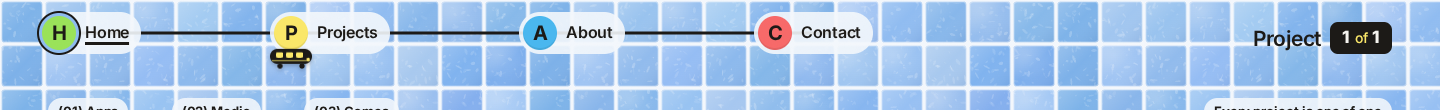
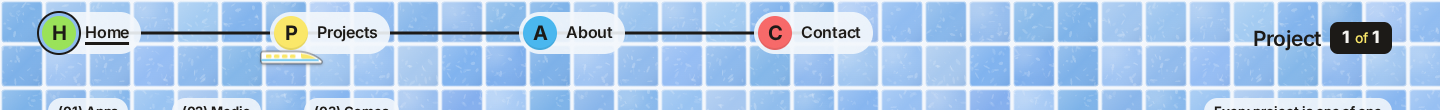
Nav: white Shinkansen-style bullet train, nose follows direction

Changed region(s): [[0.1562, 0.4364, 0.25, 0.6273]]

diff --git a/404.html b/404.html
@@ -21,7 +21,7 @@
   <link rel="preconnect" href="https://fonts.gstatic.com" crossorigin>
   <link href="https://fonts.googleapis.com/css2?family=Inter:wght@400;500;600;700;800&display=swap" rel="stylesheet">
   <link rel="stylesheet" href="/project-1-of-1/css/styles.css">
-  <meta name="build" content="nav-train-v1">
+  <meta name="build" content="nav-train-v2">
   <script>document.documentElement.classList.add("js");</script>
 </head>
 <body>
@@ -38,7 +38,7 @@
         <li><a href="/project-1-of-1/projects.html"><span class="bullet bullet--yellow" aria-hidden="true">P</span><span class="stop"><b>Projects</b><small>3 lots on view</small></span></a></li>
         <li><a href="/project-1-of-1/about.html"><span class="bullet bullet--sky" aria-hidden="true">A</span><span class="stop"><b>About</b><small>The idea</small></span></a></li>
         <li><a href="/project-1-of-1/contact.html"><span class="bullet bullet--coral" aria-hidden="true">C</span><span class="stop"><b>Contact</b><small>Say hello</small></span></a></li>
-        <li class="train-li" aria-hidden="true"><span class="train"><svg viewBox="0 0 44 22" width="44" height="22"><rect x="1" y="2" width="42" height="15" rx="7.5" fill="#1c1a17"/><rect x="7" y="5.5" width="7" height="5.5" rx="1.6" fill="#fbe86a"/><rect x="17" y="5.5" width="7" height="5.5" rx="1.6" fill="#fbe86a"/><rect x="27" y="5.5" width="7" height="5.5" rx="1.6" fill="#fbe86a"/><circle cx="39.2" cy="12.5" r="1.6" fill="#fbe86a"/><rect x="3" y="13" width="38" height="1.4" rx=".7" fill="#fbe86a" opacity=".55"/><g class="wheels" fill="#1c1a17"><circle cx="11" cy="19" r="2.6"/><circle cx="33" cy="19" r="2.6"/></g></svg></span></li>
+        <li class="train-li" aria-hidden="true"><span class="train"><svg viewBox="0 0 66 20" width="66" height="20"><path d="M3 6.5Q3 4 5.5 4H38C50 4 60 9 64 13.6Q64.6 16 62 16H5.5Q3 16 3 13.5Z" fill="#fff" stroke="#1c1a17" stroke-opacity=".55" stroke-width="1"/><path d="M43 6.2C50 6.4 55 9 58 11.2H45.5Q43 11.2 43 9Z" fill="#fbe86a"/><g fill="#fbe86a"><rect x="8" y="7" width="5.5" height="3.6" rx="1.2"/><rect x="16" y="7" width="5.5" height="3.6" rx="1.2"/><rect x="24" y="7" width="5.5" height="3.6" rx="1.2"/><rect x="32" y="7" width="5.5" height="3.6" rx="1.2"/></g><path d="M3.4 12.6H60.5" stroke="#4ab8f0" stroke-width="1.6"/></svg></span></li>
       </ul>
     </nav>
   </header>

diff --git a/projects/europe-tracker.html b/projects/europe-tracker.html
@@ -21,7 +21,7 @@
   <link rel="preconnect" href="https://fonts.gstatic.com" crossorigin>
   <link href="https://fonts.googleapis.com/css2?family=Inter:wght@400;500;600;700;800&display=swap" rel="stylesheet">
   <link rel="stylesheet" href="../css/styles.css">
-  <meta name="build" content="nav-train-v1">
+  <meta name="build" content="nav-train-v2">
   <script>document.documentElement.classList.add("js");</script>
 </head>
 <body>
@@ -38,7 +38,7 @@
         <li><a href="../projects.html" aria-current="page"><span class="bullet bullet--yellow" aria-hidden="true">P</span><span class="stop"><b>Projects</b><small>3 lots on view</small></span></a></li>
         <li><a href="../about.html"><span class="bullet bullet--sky" aria-hidden="true">A</span><span class="stop"><b>About</b><small>The idea</small></span></a></li>
         <li><a href="../contact.html"><span class="bullet bullet--coral" aria-hidden="true">C</span><span class="stop"><b>Contact</b><small>Say hello</small></span></a></li>
-        <li class="train-li" aria-hidden="true"><span class="train"><svg viewBox="0 0 44 22" width="44" height="22"><rect x="1" y="2" width="42" height="15" rx="7.5" fill="#1c1a17"/><rect x="7" y="5.5" width="7" height="5.5" rx="1.6" fill="#fbe86a"/><rect x="17" y="5.5" width="7" height="5.5" rx="1.6" fill="#fbe86a"/><rect x="27" y="5.5" width="7" height="5.5" rx="1.6" fill="#fbe86a"/><circle cx="39.2" cy="12.5" r="1.6" fill="#fbe86a"/><rect x="3" y="13" width="38" height="1.4" rx=".7" fill="#fbe86a" opacity=".55"/><g class="wheels" fill="#1c1a17"><circle cx="11" cy="19" r="2.6"/><circle cx="33" cy="19" r="2.6"/></g></svg></span></li>
+        <li class="train-li" aria-hidden="true"><span class="train"><svg viewBox="0 0 66 20" width="66" height="20"><path d="M3 6.5Q3 4 5.5 4H38C50 4 60 9 64 13.6Q64.6 16 62 16H5.5Q3 16 3 13.5Z" fill="#fff" stroke="#1c1a17" stroke-opacity=".55" stroke-width="1"/><path d="M43 6.2C50 6.4 55 9 58 11.2H45.5Q43 11.2 43 9Z" fill="#fbe86a"/><g fill="#fbe86a"><rect x="8" y="7" width="5.5" height="3.6" rx="1.2"/><rect x="16" y="7" width="5.5" height="3.6" rx="1.2"/><rect x="24" y="7" width="5.5" height="3.6" rx="1.2"/><rect x="32" y="7" width="5.5" height="3.6" rx="1.2"/></g><path d="M3.4 12.6H60.5" stroke="#4ab8f0" stroke-width="1.6"/></svg></span></li>
       </ul>
     </nav>
   </header>

diff --git a/projects/morning-news.html b/projects/morning-news.html
@@ -21,7 +21,7 @@
   <link rel="preconnect" href="https://fonts.gstatic.com" crossorigin>
   <link href="https://fonts.googleapis.com/css2?family=Inter:wght@400;500;600;700;800&display=swap" rel="stylesheet">
   <link rel="stylesheet" href="../css/styles.css">
-  <meta name="build" content="nav-train-v1">
+  <meta name="build" content="nav-train-v2">
   <script>document.documentElement.classList.add("js");</script>
 </head>
 <body>
@@ -38,7 +38,7 @@
         <li><a href="../projects.html" aria-current="page"><span class="bullet bullet--yellow" aria-hidden="true">P</span><span class="stop"><b>Projects</b><small>3 lots on view</small></span></a></li>
         <li><a href="../about.html"><span class="bullet bullet--sky" aria-hidden="true">A</span><span class="stop"><b>About</b><small>The idea</small></span></a></li>
         <li><a href="../contact.html"><span class="bullet bullet--coral" aria-hidden="true">C</span><span class="stop"><b>Contact</b><small>Say hello</small></span></a></li>
-        <li class="train-li" aria-hidden="true"><span class="train"><svg viewBox="0 0 44 22" width="44" height="22"><rect x="1" y="2" width="42" height="15" rx="7.5" fill="#1c1a17"/><rect x="7" y="5.5" width="7" height="5.5" rx="1.6" fill="#fbe86a"/><rect x="17" y="5.5" width="7" height="5.5" rx="1.6" fill="#fbe86a"/><rect x="27" y="5.5" width="7" height="5.5" rx="1.6" fill="#fbe86a"/><circle cx="39.2" cy="12.5" r="1.6" fill="#fbe86a"/><rect x="3" y="13" width="38" height="1.4" rx=".7" fill="#fbe86a" opacity=".55"/><g class="wheels" fill="#1c1a17"><circle cx="11" cy="19" r="2.6"/><circle cx="33" cy="19" r="2.6"/></g></svg></span></li>
+        <li class="train-li" aria-hidden="true"><span class="train"><svg viewBox="0 0 66 20" width="66" height="20"><path d="M3 6.5Q3 4 5.5 4H38C50 4 60 9 64 13.6Q64.6 16 62 16H5.5Q3 16 3 13.5Z" fill="#fff" stroke="#1c1a17" stroke-opacity=".55" stroke-width="1"/><path d="M43 6.2C50 6.4 55 9 58 11.2H45.5Q43 11.2 43 9Z" fill="#fbe86a"/><g fill="#fbe86a"><rect x="8" y="7" width="5.5" height="3.6" rx="1.2"/><rect x="16" y="7" width="5.5" height="3.6" rx="1.2"/><rect x="24" y="7" width="5.5" height="3.6" rx="1.2"/><rect x="32" y="7" width="5.5" height="3.6" rx="1.2"/></g><path d="M3.4 12.6H60.5" stroke="#4ab8f0" stroke-width="1.6"/></svg></span></li>
       </ul>
     </nav>
   </header>

diff --git a/projects/pixel-game.html b/projects/pixel-game.html
@@ -21,7 +21,7 @@
   <link rel="preconnect" href="https://fonts.gstatic.com" crossorigin>
   <link href="https://fonts.googleapis.com/css2?family=Inter:wght@400;500;600;700;800&display=swap" rel="stylesheet">
   <link rel="stylesheet" href="../css/styles.css">
-  <meta name="build" content="nav-train-v1">
+  <meta name="build" content="nav-train-v2">
   <script>document.documentElement.classList.add("js");</script>
 </head>
 <body>
@@ -38,7 +38,7 @@
         <li><a href="../projects.html" aria-current="page"><span class="bullet bullet--yellow" aria-hidden="true">P</span><span class="stop"><b>Projects</b><small>3 lots on view</small></span></a></li>
         <li><a href="../about.html"><span class="bullet bullet--sky" aria-hidden="true">A</span><span class="stop"><b>About</b><small>The idea</small></span></a></li>
         <li><a href="../contact.html"><span class="bullet bullet--coral" aria-hidden="true">C</span><span class="stop"><b>Contact</b><small>Say hello</small></span></a></li>
-        <li class="train-li" aria-hidden="true"><span class="train"><svg viewBox="0 0 44 22" width="44" height="22"><rect x="1" y="2" width="42" height="15" rx="7.5" fill="#1c1a17"/><rect x="7" y="5.5" width="7" height="5.5" rx="1.6" fill="#fbe86a"/><rect x="17" y="5.5" width="7" height="5.5" rx="1.6" fill="#fbe86a"/><rect x="27" y="5.5" width="7" height="5.5" rx="1.6" fill="#fbe86a"/><circle cx="39.2" cy="12.5" r="1.6" fill="#fbe86a"/><rect x="3" y="13" width="38" height="1.4" rx=".7" fill="#fbe86a" opacity=".55"/><g class="wheels" fill="#1c1a17"><circle cx="11" cy="19" r="2.6"/><circle cx="33" cy="19" r="2.6"/></g></svg></span></li>
+        <li class="train-li" aria-hidden="true"><span class="train"><svg viewBox="0 0 66 20" width="66" height="20"><path d="M3 6.5Q3 4 5.5 4H38C50 4 60 9 64 13.6Q64.6 16 62 16H5.5Q3 16 3 13.5Z" fill="#fff" stroke="#1c1a17" stroke-opacity=".55" stroke-width="1"/><path d="M43 6.2C50 6.4 55 9 58 11.2H45.5Q43 11.2 43 9Z" fill="#fbe86a"/><g fill="#fbe86a"><rect x="8" y="7" width="5.5" height="3.6" rx="1.2"/><rect x="16" y="7" width="5.5" height="3.6" rx="1.2"/><rect x="24" y="7" width="5.5" height="3.6" rx="1.2"/><rect x="32" y="7" width="5.5" height="3.6" rx="1.2"/></g><path d="M3.4 12.6H60.5" stroke="#4ab8f0" stroke-width="1.6"/></svg></span></li>
       </ul>
     </nav>
   </header>

diff --git a/about.html b/about.html
@@ -21,7 +21,7 @@
   <link rel="preconnect" href="https://fonts.gstatic.com" crossorigin>
   <link href="https://fonts.googleapis.com/css2?family=Inter:wght@400;500;600;700;800&display=swap" rel="stylesheet">
   <link rel="stylesheet" href="css/styles.css">
-  <meta name="build" content="nav-train-v1">
+  <meta name="build" content="nav-train-v2">
   <script>document.documentElement.classList.add("js");</script>
 </head>
 <body>
@@ -38,7 +38,7 @@
         <li><a href="projects.html"><span class="bullet bullet--yellow" aria-hidden="true">P</span><span class="stop"><b>Projects</b><small>3 lots on view</small></span></a></li>
         <li><a href="about.html" aria-current="page"><span class="bullet bullet--sky" aria-hidden="true">A</span><span class="stop"><b>About</b><small>The idea</small></span></a></li>
         <li><a href="contact.html"><span class="bullet bullet--coral" aria-hidden="true">C</span><span class="stop"><b>Contact</b><small>Say hello</small></span></a></li>
-        <li class="train-li" aria-hidden="true"><span class="train"><svg viewBox="0 0 44 22" width="44" height="22"><rect x="1" y="2" width="42" height="15" rx="7.5" fill="#1c1a17"/><rect x="7" y="5.5" width="7" height="5.5" rx="1.6" fill="#fbe86a"/><rect x="17" y="5.5" width="7" height="5.5" rx="1.6" fill="#fbe86a"/><rect x="27" y="5.5" width="7" height="5.5" rx="1.6" fill="#fbe86a"/><circle cx="39.2" cy="12.5" r="1.6" fill="#fbe86a"/><rect x="3" y="13" width="38" height="1.4" rx=".7" fill="#fbe86a" opacity=".55"/><g class="wheels" fill="#1c1a17"><circle cx="11" cy="19" r="2.6"/><circle cx="33" cy="19" r="2.6"/></g></svg></span></li>
+        <li class="train-li" aria-hidden="true"><span class="train"><svg viewBox="0 0 66 20" width="66" height="20"><path d="M3 6.5Q3 4 5.5 4H38C50 4 60 9 64 13.6Q64.6 16 62 16H5.5Q3 16 3 13.5Z" fill="#fff" stroke="#1c1a17" stroke-opacity=".55" stroke-width="1"/><path d="M43 6.2C50 6.4 55 9 58 11.2H45.5Q43 11.2 43 9Z" fill="#fbe86a"/><g fill="#fbe86a"><rect x="8" y="7" width="5.5" height="3.6" rx="1.2"/><rect x="16" y="7" width="5.5" height="3.6" rx="1.2"/><rect x="24" y="7" width="5.5" height="3.6" rx="1.2"/><rect x="32" y="7" width="5.5" height="3.6" rx="1.2"/></g><path d="M3.4 12.6H60.5" stroke="#4ab8f0" stroke-width="1.6"/></svg></span></li>
       </ul>
     </nav>
   </header>

diff --git a/contact.html b/contact.html
@@ -21,7 +21,7 @@
   <link rel="preconnect" href="https://fonts.gstatic.com" crossorigin>
   <link href="https://fonts.googleapis.com/css2?family=Inter:wght@400;500;600;700;800&display=swap" rel="stylesheet">
   <link rel="stylesheet" href="css/styles.css">
-  <meta name="build" content="nav-train-v1">
+  <meta name="build" content="nav-train-v2">
   <script>document.documentElement.classList.add("js");</script>
 </head>
 <body>
@@ -38,7 +38,7 @@
         <li><a href="projects.html"><span class="bullet bullet--yellow" aria-hidden="true">P</span><span class="stop"><b>Projects</b><small>3 lots on view</small></span></a></li>
         <li><a href="about.html"><span class="bullet bullet--sky" aria-hidden="true">A</span><span class="stop"><b>About</b><small>The idea</small></span></a></li>
         <li><a href="contact.html" aria-current="page"><span class="bullet bullet--coral" aria-hidden="true">C</span><span class="stop"><b>Contact</b><small>Say hello</small></span></a></li>
-        <li class="train-li" aria-hidden="true"><span class="train"><svg viewBox="0 0 44 22" width="44" height="22"><rect x="1" y="2" width="42" height="15" rx="7.5" fill="#1c1a17"/><rect x="7" y="5.5" width="7" height="5.5" rx="1.6" fill="#fbe86a"/><rect x="17" y="5.5" width="7" height="5.5" rx="1.6" fill="#fbe86a"/><rect x="27" y="5.5" width="7" height="5.5" rx="1.6" fill="#fbe86a"/><circle cx="39.2" cy="12.5" r="1.6" fill="#fbe86a"/><rect x="3" y="13" width="38" height="1.4" rx=".7" fill="#fbe86a" opacity=".55"/><g class="wheels" fill="#1c1a17"><circle cx="11" cy="19" r="2.6"/><circle cx="33" cy="19" r="2.6"/></g></svg></span></li>
+        <li class="train-li" aria-hidden="true"><span class="train"><svg viewBox="0 0 66 20" width="66" height="20"><path d="M3 6.5Q3 4 5.5 4H38C50 4 60 9 64 13.6Q64.6 16 62 16H5.5Q3 16 3 13.5Z" fill="#fff" stroke="#1c1a17" stroke-opacity=".55" stroke-width="1"/><path d="M43 6.2C50 6.4 55 9 58 11.2H45.5Q43 11.2 43 9Z" fill="#fbe86a"/><g fill="#fbe86a"><rect x="8" y="7" width="5.5" height="3.6" rx="1.2"/><rect x="16" y="7" width="5.5" height="3.6" rx="1.2"/><rect x="24" y="7" width="5.5" height="3.6" rx="1.2"/><rect x="32" y="7" width="5.5" height="3.6" rx="1.2"/></g><path d="M3.4 12.6H60.5" stroke="#4ab8f0" stroke-width="1.6"/></svg></span></li>
       </ul>
     </nav>
   </header>

diff --git a/projects.html b/projects.html
@@ -21,7 +21,7 @@
   <link rel="preconnect" href="https://fonts.gstatic.com" crossorigin>
   <link href="https://fonts.googleapis.com/css2?family=Inter:wght@400;500;600;700;800&display=swap" rel="stylesheet">
   <link rel="stylesheet" href="css/styles.css">
-  <meta name="build" content="nav-train-v1">
+  <meta name="build" content="nav-train-v2">
   <script>document.documentElement.classList.add("js");</script>
 </head>
 <body>
@@ -38,7 +38,7 @@
         <li><a href="projects.html" aria-current="page"><span class="bullet bullet--yellow" aria-hidden="true">P</span><span class="stop"><b>Projects</b><small>3 lots on view</small></span></a></li>
         <li><a href="about.html"><span class="bullet bullet--sky" aria-hidden="true">A</span><span class="stop"><b>About</b><small>The idea</small></span></a></li>
         <li><a href="contact.html"><span class="bullet bullet--coral" aria-hidden="true">C</span><span class="stop"><b>Contact</b><small>Say hello</small></span></a></li>
-        <li class="train-li" aria-hidden="true"><span class="train"><svg viewBox="0 0 44 22" width="44" height="22"><rect x="1" y="2" width="42" height="15" rx="7.5" fill="#1c1a17"/><rect x="7" y="5.5" width="7" height="5.5" rx="1.6" fill="#fbe86a"/><rect x="17" y="5.5" width="7" height="5.5" rx="1.6" fill="#fbe86a"/><rect x="27" y="5.5" width="7" height="5.5" rx="1.6" fill="#fbe86a"/><circle cx="39.2" cy="12.5" r="1.6" fill="#fbe86a"/><rect x="3" y="13" width="38" height="1.4" rx=".7" fill="#fbe86a" opacity=".55"/><g class="wheels" fill="#1c1a17"><circle cx="11" cy="19" r="2.6"/><circle cx="33" cy="19" r="2.6"/></g></svg></span></li>
+        <li class="train-li" aria-hidden="true"><span class="train"><svg viewBox="0 0 66 20" width="66" height="20"><path d="M3 6.5Q3 4 5.5 4H38C50 4 60 9 64 13.6Q64.6 16 62 16H5.5Q3 16 3 13.5Z" fill="#fff" stroke="#1c1a17" stroke-opacity=".55" stroke-width="1"/><path d="M43 6.2C50 6.4 55 9 58 11.2H45.5Q43 11.2 43 9Z" fill="#fbe86a"/><g fill="#fbe86a"><rect x="8" y="7" width="5.5" height="3.6" rx="1.2"/><rect x="16" y="7" width="5.5" height="3.6" rx="1.2"/><rect x="24" y="7" width="5.5" height="3.6" rx="1.2"/><rect x="32" y="7" width="5.5" height="3.6" rx="1.2"/></g><path d="M3.4 12.6H60.5" stroke="#4ab8f0" stroke-width="1.6"/></svg></span></li>
       </ul>
     </nav>
   </header>

diff --git a/index.html b/index.html
@@ -21,7 +21,7 @@
   <link rel="preconnect" href="https://fonts.gstatic.com" crossorigin>
   <link href="https://fonts.googleapis.com/css2?family=Inter:wght@400;500;600;700;800&display=swap" rel="stylesheet">
   <link rel="stylesheet" href="css/styles.css">
-  <meta name="build" content="nav-train-v1">
+  <meta name="build" content="nav-train-v2">
   <script>document.documentElement.classList.add("js");</script>
 </head>
 <body>
@@ -38,7 +38,7 @@
         <li><a href="projects.html"><span class="bullet bullet--yellow" aria-hidden="true">P</span><span class="stop"><b>Projects</b><small>3 lots on view</small></span></a></li>
         <li><a href="about.html"><span class="bullet bullet--sky" aria-hidden="true">A</span><span class="stop"><b>About</b><small>The idea</small></span></a></li>
         <li><a href="contact.html"><span class="bullet bullet--coral" aria-hidden="true">C</span><span class="stop"><b>Contact</b><small>Say hello</small></span></a></li>
-        <li class="train-li" aria-hidden="true"><span class="train"><svg viewBox="0 0 44 22" width="44" height="22"><rect x="1" y="2" width="42" height="15" rx="7.5" fill="#1c1a17"/><rect x="7" y="5.5" width="7" height="5.5" rx="1.6" fill="#fbe86a"/><rect x="17" y="5.5" width="7" height="5.5" rx="1.6" fill="#fbe86a"/><rect x="27" y="5.5" width="7" height="5.5" rx="1.6" fill="#fbe86a"/><circle cx="39.2" cy="12.5" r="1.6" fill="#fbe86a"/><rect x="3" y="13" width="38" height="1.4" rx=".7" fill="#fbe86a" opacity=".55"/><g class="wheels" fill="#1c1a17"><circle cx="11" cy="19" r="2.6"/><circle cx="33" cy="19" r="2.6"/></g></svg></span></li>
+        <li class="train-li" aria-hidden="true"><span class="train"><svg viewBox="0 0 66 20" width="66" height="20"><path d="M3 6.5Q3 4 5.5 4H38C50 4 60 9 64 13.6Q64.6 16 62 16H5.5Q3 16 3 13.5Z" fill="#fff" stroke="#1c1a17" stroke-opacity=".55" stroke-width="1"/><path d="M43 6.2C50 6.4 55 9 58 11.2H45.5Q43 11.2 43 9Z" fill="#fbe86a"/><g fill="#fbe86a"><rect x="8" y="7" width="5.5" height="3.6" rx="1.2"/><rect x="16" y="7" width="5.5" height="3.6" rx="1.2"/><rect x="24" y="7" width="5.5" height="3.6" rx="1.2"/><rect x="32" y="7" width="5.5" height="3.6" rx="1.2"/></g><path d="M3.4 12.6H60.5" stroke="#4ab8f0" stroke-width="1.6"/></svg></span></li>
       </ul>
     </nav>
   </header>

diff --git a/css/styles.css b/css/styles.css
@@ -475,25 +475,22 @@ a.contact-card:hover { transform: translateY(-5px); box-shadow: 0 30px 60px -30p
   .route::before { left: 18px; right: 18px; top: calc(50% - 5px); }
 }
 .train-li { position: absolute !important; left: 0; top: 0; z-index: 3 !important; pointer-events: none; list-style: none; }
-.train { position: absolute; left: 0; top: 0; display: block; width: 44px; height: 22px; margin: -11px 0 0 -22px;
-  transform: translate(var(--tx, 0px), var(--ty, 0px)) rotate(var(--rot, 0deg)); opacity: 0; filter: drop-shadow(0 2px 2px rgba(28,26,23,.25)); }
+.train { position: absolute; left: 0; top: 0; display: block; width: 66px; height: 20px; margin: -10px 0 0 -33px;
+  transform: translate(var(--tx, 0px), var(--ty, 0px)) scaleX(var(--flip, 1)); opacity: 0; filter: drop-shadow(0 1.5px 1.5px rgba(28,26,23,.35)); }
 .train.is-placed { opacity: 1; }
 .train.is-moving { transition: transform .8s cubic-bezier(.65,0,.35,1); }
 .train svg { display: block; }
 .train.is-moving svg { animation: train-bob .2s ease-in-out infinite alternate; }
-.train.is-moving .wheels circle { animation: train-wheel .2s linear infinite alternate; }
-@keyframes train-bob { to { transform: translateY(-1.2px); } }
-@keyframes train-wheel { to { transform: translateY(.6px); } }
+@keyframes train-bob { to { transform: translateY(-.8px); } }
 @media (max-width: 760px) {
   .route .train-li { display: block; }
 }
 @media (prefers-reduced-motion: reduce) {
   .train.is-moving { transition: none; }
-  .train.is-moving svg, .train.is-moving .wheels circle { animation: none; }
+  .train.is-moving svg { animation: none; }
   ::view-transition-old(root), ::view-transition-new(root) { animation: none; }
 }
 
 @media (max-width: 760px) {
-  .train { margin: -11px 0 0 -22px; }
   .route .train-li { display: block; }
 }

diff --git a/js/nav.js b/js/nav.js
@@ -10,7 +10,8 @@
     var yb = mobile.matches ? b.top + b.height / 2 - r.top + 36 : b.bottom - r.top + 8;
     return { x: x, y: yb, rot: 0 };                                          // parked under the current station
   }
-  function place(a) { var s = spot(a); train.style.setProperty('--tx', s.x + 'px'); train.style.setProperty('--ty', s.y + 'px'); train.style.setProperty('--rot', s.rot + 'deg'); }
+  function place(a) { var s = spot(a); train.style.setProperty('--tx', s.x + 'px'); train.style.setProperty('--ty', s.y + 'px'); train.style.setProperty('--flip', flip); }
+  var flip = sessionStorage.getItem('trainFlip') || '1';
   var current = route.querySelector('a[aria-current="page"]') || route.querySelector('a');
   place(current); train.classList.add('is-placed');
   window.addEventListener('resize', function () { if (!train.classList.contains('is-moving')) place(current); });
@@ -22,6 +23,8 @@
     if (reduce) return;                       // instant: normal navigation
     e.preventDefault();
     var go = function () { location.href = a.href; };
+    var from = spot(current).x, to = spot(a).x;
+    flip = to < from ? '-1' : '1'; try { sessionStorage.setItem('trainFlip', flip); } catch (_) {}
     train.classList.add('is-moving'); place(a);
     var done = false, fin = function () { if (!done) { done = true; go(); } };
     train.addEventListener('transitionend', fin, { once: true }); setTimeout(fin, 950);
